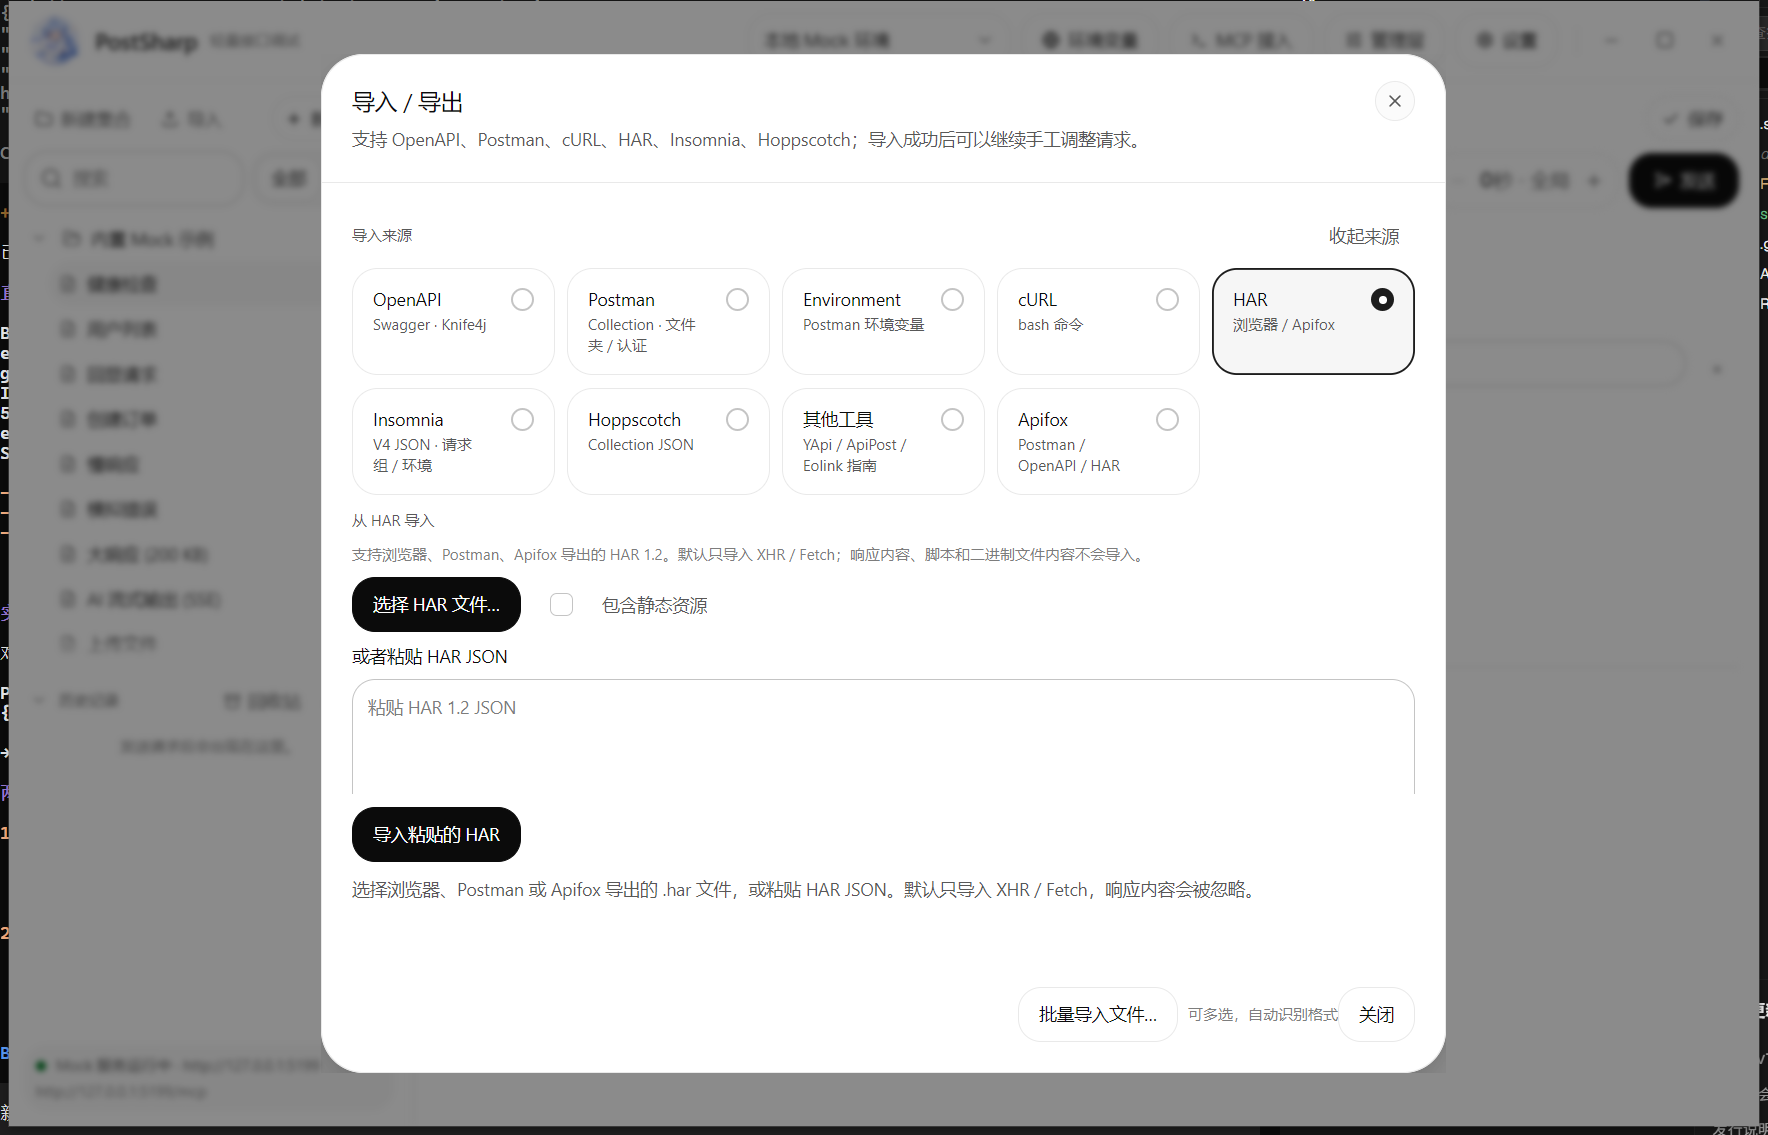
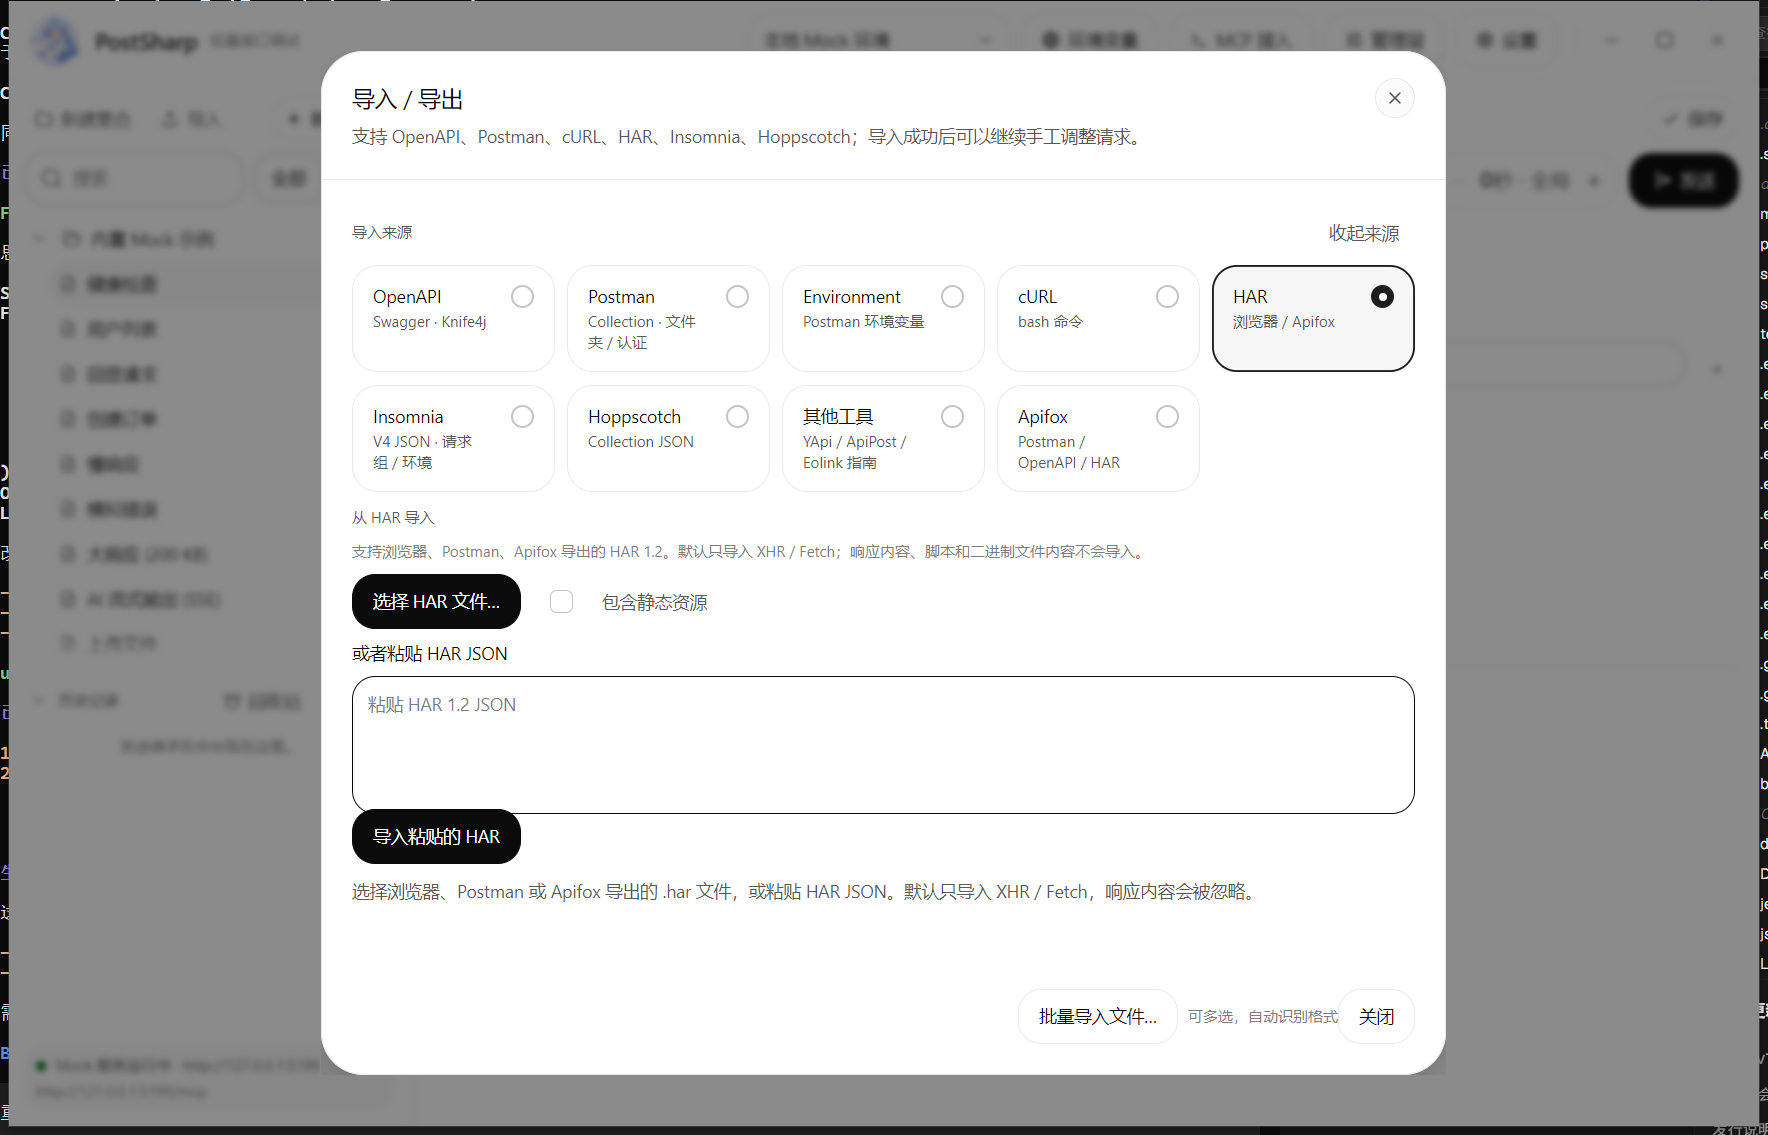
fix: polish import dialog layout and spacing

diff --git a/README.md b/README.md
@@ -577,6 +577,7 @@ docs/
 | 导入来源卡片 | OpenAPI、Postman Collection、Postman Environment、cURL、HAR、Insomnia、Hoppscotch、YApi/ApiPost/Eolink、Apifox 九张卡片同屏展示，选中态清晰 |
 | 批量导入 | 文件选择器允许多选；自动识别 OpenAPI / Postman / HAR / Insomnia / Hoppscotch / cURL，逐文件成功/失败互不影响 |
 | 导入反馈 | 单文件成功 Toast；批量或有提示时显示「导入结果」绿色结果区和「兼容性提示」橙色提示区，含请求/分组/环境数量，默认折叠可展开 |
+| 粘贴区 | 长 JSON 在固定高度内自适应滚动；底部边框完整，不再被外层裁切 |
 | 导入导出 UI | 「导入 / 导出」对话框宽 720–900 DIP；来源卡片可收起，批量入口、粘贴区、可折叠结果/提示区在 125% 缩放下不重叠 |
 | 自测 | `dotnet test tests/PostSharp.Tests/PostSharp.Tests.csproj`：30 个测试全部通过 |
 | 列表对齐 | 1000/1400 宽度下审计行、状态/时间、方法徽标、操作列保持对齐 |
